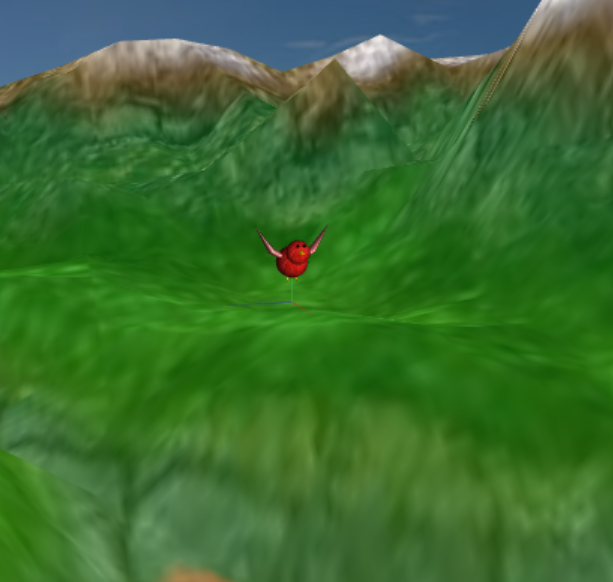
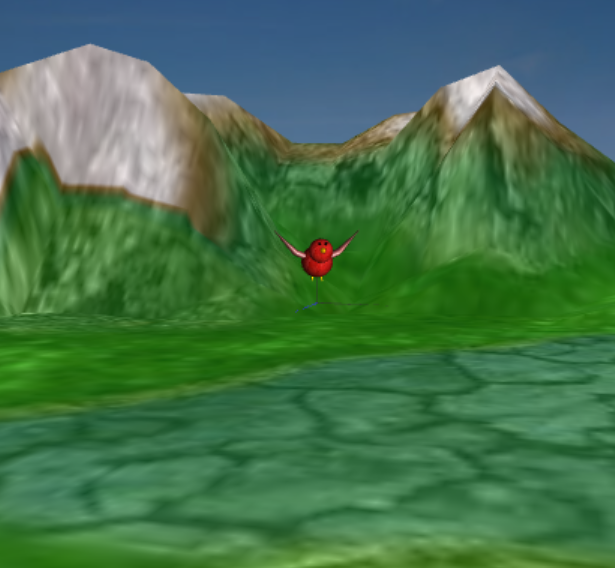
corrected terrain

diff --git a/project/MyTerrain.js b/project/MyTerrain.js
@@ -20,7 +20,7 @@ export class MyTerrain extends CGFobject {
         this.mountainMaterial.setTexture(this.mountainTexture);
         this.mountainMaterial.setTextureWrap('REPEAT', 'REPEAT');
     
-        this.mountainHeightmap = new CGFtexture(this.scene, "images/heightmap.jpg");
+        this.mountainHeightmap = new CGFtexture(this.scene, "images/newheightmap.jpg");
         this.mountainGradient = new CGFtexture(this.scene, "images/altimetry.png");
 
         this.mountainShader = new CGFshader(this.scene.gl, "shaders/mountain.vert", "shaders/mountain.frag");
@@ -41,7 +41,7 @@ export class MyTerrain extends CGFobject {
             // ---- display
             this.mountainMaterial.apply();
             this.scene.rotate(-0.5*Math.PI, 1, 0, 0);
-            this.scene.translate(0, -8, -50);
+            this.scene.translate(0, 0, -50);
             this.scene.scale(400, 400, 16);
             this.plane.display();
             
